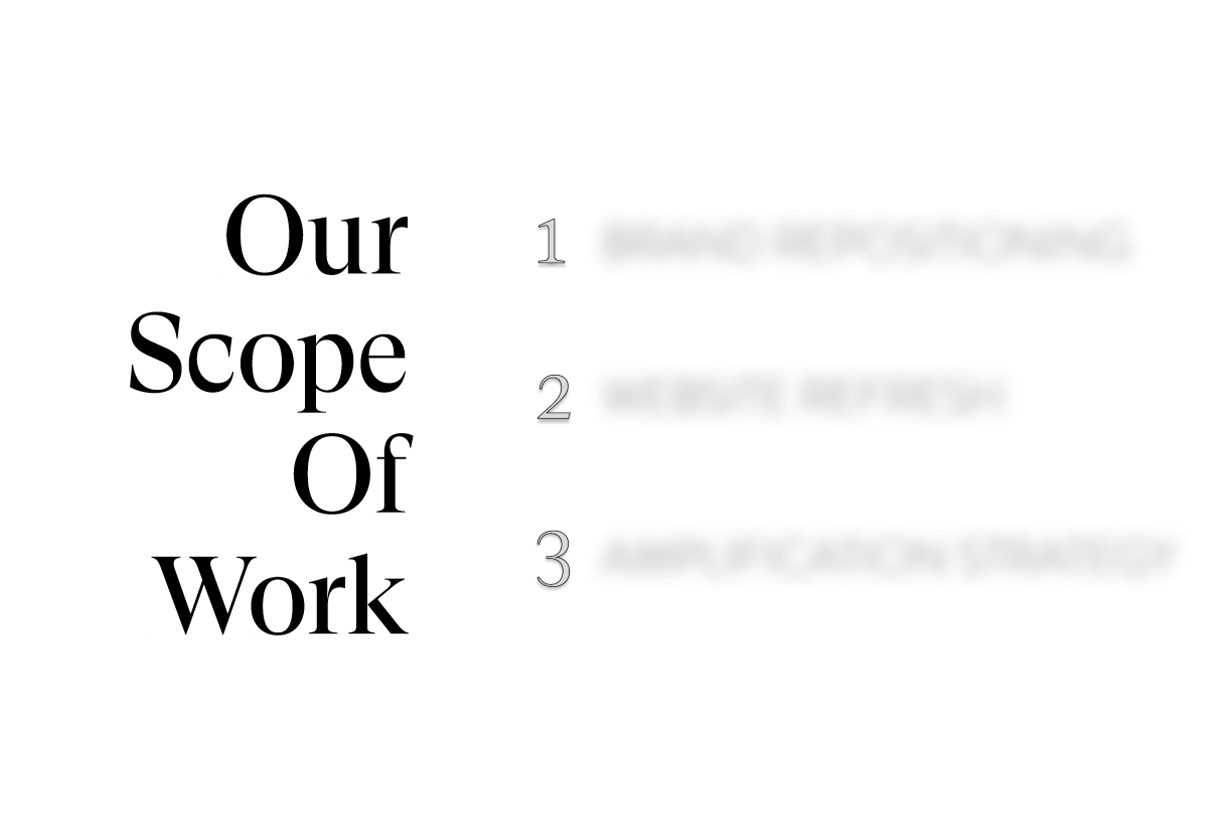
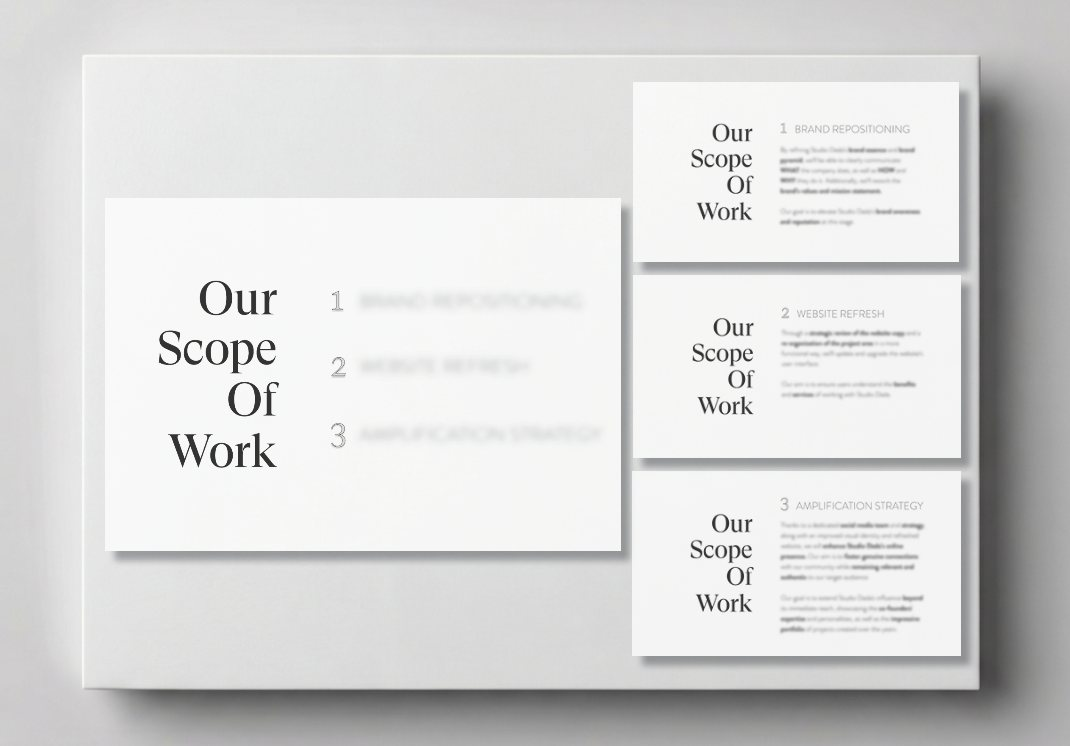
Sync case-study images and captions from Figma
Replace section 01/02/03 images (Kicking Off 2026, chocolate bars, Scope of Work) and update captions to match the edited Figma file.

diff --git a/index.html b/index.html
@@ -544,8 +544,8 @@
     <!-- 01 — Seoul Ink · image left -->
     <article class="project project--split project--01">
       <figure class="project__media reveal-fade">
-        <img src="images/seoul-ink.jpg" alt="Korean folklore ornamentation from the Seoul Ink brand environment" width="980" height="480" loading="lazy" />
-        <figcaption>Korean folklore reference, brand environment</figcaption>
+        <img src="images/seoul-ink.jpg" alt="Seoul Ink brand project, Kicking Off 2026 campaign apparel" width="630" height="800" loading="lazy" />
+        <figcaption>Seoul Ink, original typography direction, logo conception, and brand coherence framework developed during my tenure.</figcaption>
       </figure>
       <div class="project__content">
         <div class="reveal">
@@ -593,8 +593,8 @@
     <!-- 02 — Chocolate · image right, offset -->
     <article class="project project--split project--02 project--rev">
       <figure class="project__media reveal-fade">
-        <img src="images/chocolate.jpg" alt="Warm editorial still life, cappuccino, gold ribbon and an open book" width="982" height="1472" loading="lazy" />
-        <figcaption>Warmth &amp; craft, concept still life</figcaption>
+        <img src="images/chocolate.jpg" alt="Dark chocolate bars with cocoa nibs" width="1066" height="1600" loading="lazy" />
+        <figcaption>From chocolate to praline.</figcaption>
       </figure>
       <div class="project__content">
         <div class="reveal">
@@ -640,7 +640,7 @@
     <!-- 03 — Octonano · image left, content right (matches 01) -->
     <article class="project project--split project--03">
       <figure class="project__media reveal-fade">
-        <img src="images/octonano.jpg" alt="Octonano scope-of-work presentation slide" width="1222" height="832" loading="lazy" />
+        <img src="images/octonano.jpg" alt="Octonano Scope of Work presentation" width="1070" height="746" loading="lazy" />
       </figure>
       <div class="project__content">
         <div class="reveal">
